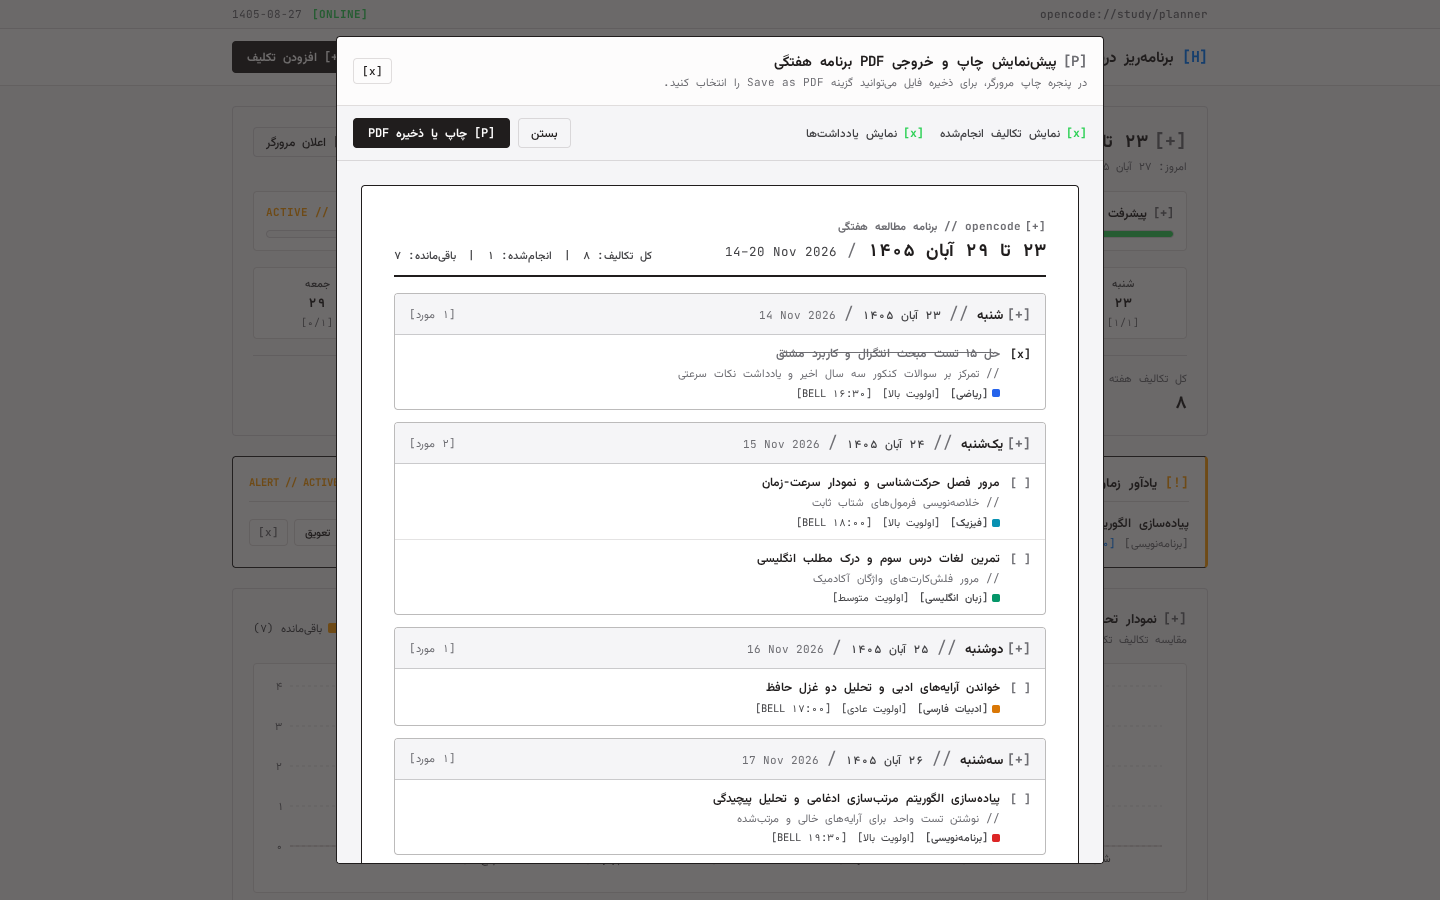
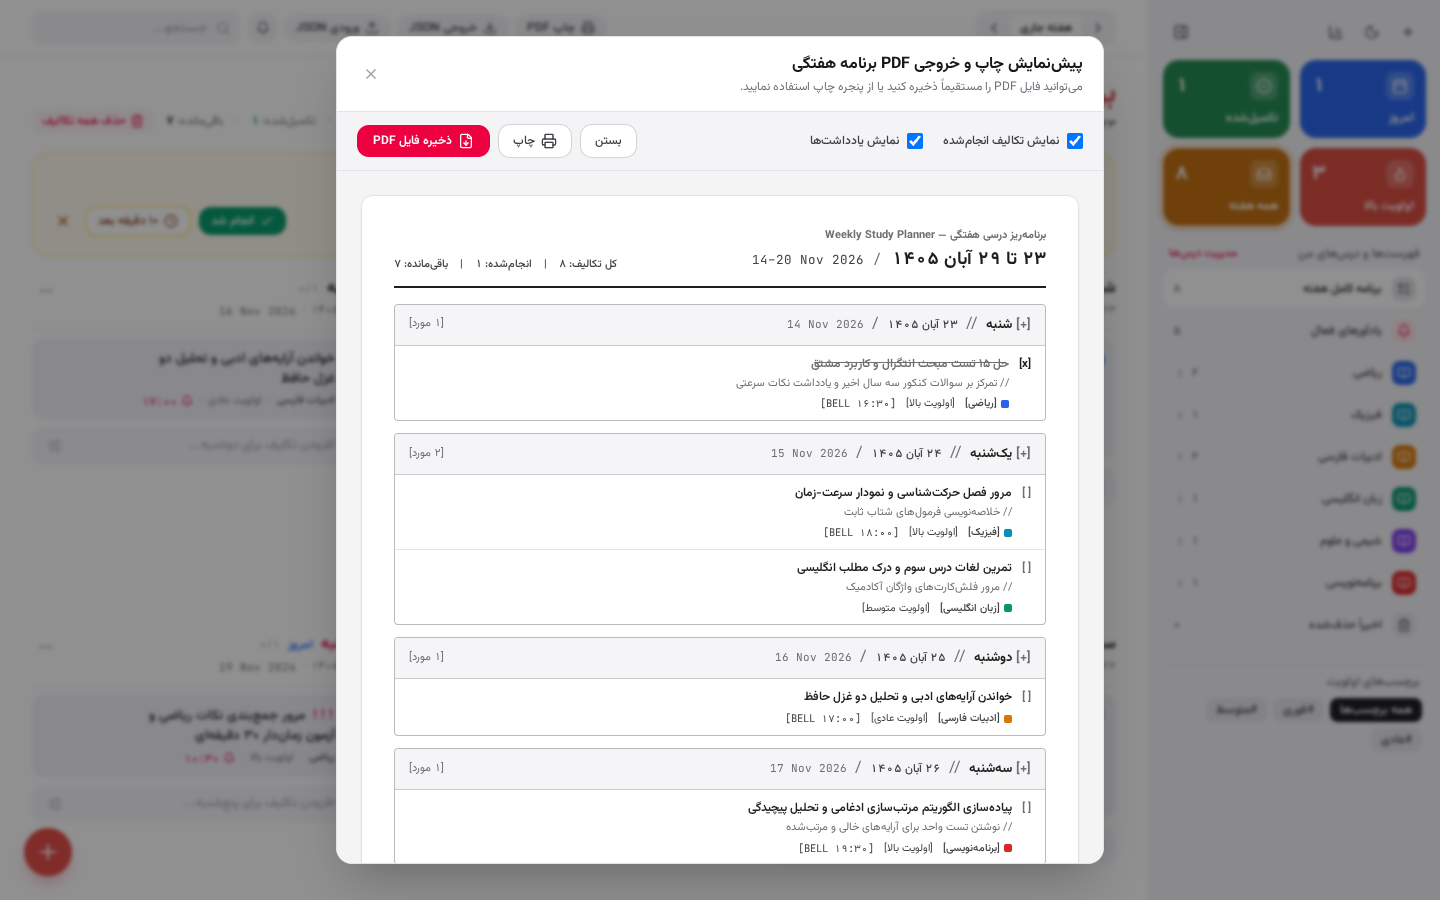
feat: enhance task management and UI
- Add option to register tasks for the entire week
- Implement recycle bin for deleted tasks
- Add bulk deletion and secure confirmation
- Update README with key feature documentation

diff --git a/README.md b/README.md
@@ -50,17 +50,19 @@
 
 ### ✨ امکانات کلیدی
 
+- **رابط کاربری دوپانله مدرن (الهامگرفته از Reminders)**: نوار کناری جمعشونده شامل ۴ کاشی آماری سریع (**امروز**، **تکمیلشده**، **اولویت بالا**، **همه هفته**)، فهرست دروس با شمارنده زنده، بخش **اخیراً حذفشده**، برچسبهای اولویت (`#فوری`، `#متوسط`، `#عادی`)، گرید ۳ ستونه روزهای هفته و دکمه شناور افزودن تکلیف.
 - **برنامهریزی هفتگی (شنبه تا جمعه)**: دستهبندی تکالیف بر اساس ۷ روز هفته ایرانی همراه با دکمههای جابهجایی سریع بین «هفته قبل»، «هفته جاری» و «هفته بعد» و نمایش برچسب «امروز».
 - **تقویم دوگانه شمسی و میلادی**: نمایش دقیق و همزمان تاریخ شمسی (با محاسبه دقیق سالهای کبیسه در هر دو لایه TypeScript و Rust) در کنار تاریخ میلادی برای بازه هفته و تکتک روزها.
-- **مدیریت تکالیف و افزودن سریع**: ایجاد، ویرایش و حذف تکالیف با عنوان، یادداشت، انتخاب درس، اولویت سهسطحی (**بالا**، **متوسط**، **عادی**) و افزودن سریع درونخطی (`افزودن سریع`) برای هر روز.
+- **مدیریت تکالیف، افزودن سریع و ثبت برای کل هفته**: ایجاد، ویرایش و حذف تکالیف با عنوان، یادداشت، انتخاب درس، اولویت سهسطحی (**بالا**، **متوسط**، **عادی**)، افزودن سریع درونخطی برای هر روز و تیک **«ثبت برای تمام روزهای هفته (شنبه تا جمعه)»** در هر دو بخش افزودن سریع و پنجره افزودن تکلیف.
+- **سطل بازیافت (اخیراً حذفشده) و حذف همگانی امن**: انتقال تکالیف حذفشده به بخش **«اخیراً حذفشده»** با قابلیت بازیابی یا حذف دائمی؛ همچنین دکمه **«حذف همه تکالیف»** همراه با پنجره تأیید امن، انتخاب دامنه (همه تکالیف یا فقط هفته جاری) و گزینه حذف دائمی.
 - **دستهبندی موضوعی دروس**: امکان ساخت، ویرایش و حذف درسها به همراه انتخاب رنگ اختصاصی (`SubjectModal`).
 - **سیستم یادآور هوشمند**: تنظیم ساعت یادآور (`HH:mm`) برای هر تکلیف، بنر اعلانهای سررسیدشده در بالای صفحه، پخش صدای ملایم هشدار (Web Audio API)، تعویق ۱۰ دقیقهای (Snooze) و پشتیبانی از اعلان مرورگر (`Notification API`).
-- **فیلتر و جستجوی آنی**: جستجو در عنوان و یادداشت تکالیف و فیلتر همزمان بر اساس درس، سطح اولویت و وضعیت (همه / باقیمانده / انجامشده).
+- **فیلتر و جستجوی آنی**: جستجو در عنوان و یادداشت تکالیف و فیلتر همزمان بر اساس کاشیهای سریع، درس، یادآورهای فعال و برچسبهای اولویت.
 - **نمودار تحلیلی پیشرفت هفتگی**: رسم نمودار میلهای تعاملی با **Recharts** برای مقایسه تکالیف تکمیلشده در برابر باقیمانده به تفکیک روزهای شنبه تا جمعه همراه با نرخ پیشرفت هفته و Tooltip دوگانه تاریخ.
-- **چاپ و خروجی PDF استاندارد**: پیشنمایش صفحه چاپ A4 با چیدمان راستبهچپ (`@media print`)، گزینههای نمایش/مخفیسازی تکالیف انجامشده و یادداشتها و ذخیره مستقیم به صورت PDF.
-- **حالت تاریک (Dark Mode)**: دکمه تغییر تم در هدر با ذخیرهسازی انتخاب کاربر و هماهنگی خودکار با تنظیمات سیستمعامل.
-- **پشتیبانگیری و بازیابی JSON**:
-  - خروجی گرفتن از کل تکالیف، درسها و تم در قالب فایل `.json` تاریخدار (در نسخه دسکتاپ/اندروید Tauri مستقیماً توسط دستور بومی Rust در پوشه Downloads ذخیره میشود).
+- **چاپ و خروجی مستقیم PDF (برگه A4)**: پیشنمایش صفحه چاپ A4 با چیدمان راستبهچپ (`@media print`)، گزینههای نمایش/مخفیسازی تکالیف انجامشده و یادداشتها و تولید مستقیم فایل چندصفحهای PDF با `jsPDF`.
+- **حالت تاریک (Dark Mode)**: دکمه تغییر تم در نوار کناری با ذخیرهسازی انتخاب کاربر و هماهنگی خودکار با تنظیمات سیستمعامل.
+- **پشتیبانگیری و بازیابی JSON و پوشه اختصاصی خروجی**:
+  - خروجی گرفتن از کل تکالیف، درسها و تم در قالب فایل `.json` تاریخدار و ذخیره مستقیم فایلهای **PDF** و **JSON** در پوشه اختصاصی **`Download/WeeklyStudyPlanner`** در نسخه اندروید (از طریق پل بومی Kotlin و `MediaStore`) و **`Downloads/WeeklyStudyPlanner`** در نسخههای دسکتاپ Tauri.
   - دریافت ورودی JSON از طریق انتخاب فایل یا چسباندن مستقیم متن، اعتبارسنجی لحظهای ساختار و اعمال به دو روش **جایگزینی کامل** یا **ادغام هوشمند**.
 - **قابلیت PWA و کارکرد آفلاین**: قابل نصب روی موبایل و دسکتاپ از طریق مرورگر، همراه با کش آفلاین Service Worker و نوار اطلاعرسانی حالت آفلاین.
 
@@ -147,7 +149,7 @@ npx tauri dev
 
 #### ۴. اجرای تستها و بررسی تایپها
 ```bash
-# تستهای واحد فرانتاند (۲۲ تست)
+# تستهای واحد فرانتاند (۳۰ تست)
 npx tsx --test src/utils/*.test.ts
 
 # بررسی تایپهای TypeScript
@@ -216,17 +218,19 @@ git push origin v1.0.0
 
 ### ✨ Key Features
 
+- **Modern Split-Pane Reminders UI**: Collapsible sidebar (`PlannerSidebar`) featuring 2×2 color-coded quick-filter tiles (**Today**, **Completed**, **High Priority**, **All Week**), live subject lists, **Recently Deleted** trash view, priority tag pills, a 3-column weekly board grid, and a floating `+` action button.
 - **Weekly Schedule (Saturday to Friday)**: Structured 7-day layout with quick week navigation (`Previous`, `Current`, `Next`) and automatic highlighting for today's date.
 - **Dual Jalali & Gregorian Calendar**: Accurate, simultaneous Persian (Jalali) and Gregorian dates across week headers, day sections, and charts—implemented in both TypeScript (`src/utils/jalali.ts`) and Rust (`src-tauri/src/jalali.rs`) with leap-year handling.
-- **Task Management & Inline Quick-Add**: Create, edit, and delete study tasks with optional notes, subject tag, 3 priority tiers (`high`, `medium`, `low`), completion toggles, and fast inline task creation per day.
+- **Task Management, Inline Quick-Add & All-Week Repeat**: Create, edit, and delete study tasks with optional notes, subject tag, 3 priority tiers (`high`, `medium`, `low`), completion toggles, inline per-day creation, and a **register for all days of the week (Saturday–Friday)** checkbox in both `TaskModal` and inline quick-add.
+- **Recently Deleted (Trash) & Safe Bulk Delete**: Deleted tasks move to **Recently Deleted** for one-click restore or permanent removal, plus a **Delete All Tasks** action (`ConfirmDeleteAllModal`) supporting all-tasks or current-week scope and reversible soft-delete or permanent delete.
 - **Custom Subject Categories**: Full CRUD management for academic subjects with custom color swatches (`SubjectModal`).
 - **Smart Study Reminders**: Per-task `HH:mm` reminders, an active due-reminders banner (`ReminderBanner`), Web Audio API chime (`sound.ts`), 10-minute snooze, dismiss/complete quick actions, and browser `Notification` API support.
-- **Live Filtering & Search**: Instant filtering across search text (title & notes), subject category, priority level, and completion status.
+- **Live Filtering & Search**: Instant filtering across search text (title & notes), quick-filter tiles, subject lists, active reminders, and priority tags.
 - **Weekly Progress Analytics Chart**: Interactive **Recharts** bar chart comparing completed vs. remaining tasks per day alongside weekly completion percentage and dual-date tooltips.
-- **A4 Print & PDF Export**: Dedicated `@media print` A4 sheet preview (`PrintScheduleModal` + `PrintableWeekSheet`) with toggles for completed tasks and notes, ready to save as PDF.
-- **Dark Mode**: Header theme toggle saved to `localStorage` (`study_planner_theme_v1`), respecting system `prefers-color-scheme` with flash-free startup.
-- **JSON Backup & Restore**:
-  - Export all tasks, subjects, and theme preference into a dated `.json` file (automatically saved to Downloads natively via Rust `save_json_backup` when running in Tauri, or downloaded via browser Blob).
+- **Direct A4 PDF Export & Print Preview**: Dedicated `@media print` A4 sheet preview (`PrintScheduleModal` + `PrintableWeekSheet`) with toggles for completed tasks and notes, plus direct multi-page RTL PDF generation via `jsPDF` (`pdfExport.ts`).
+- **Dark Mode**: Sidebar theme toggle saved to `localStorage` (`study_planner_theme_v1`), respecting system `prefers-color-scheme` with flash-free startup.
+- **JSON Backup, Restore & Dedicated Export Folder**:
+  - Export all tasks, subjects, and theme preference into a dated `.json` file—both **PDF** and **JSON** exports are saved natively into **`Download/WeeklyStudyPlanner`** on Android (via Kotlin `MediaStore.Downloads` bridge) and **`Downloads/WeeklyStudyPlanner`** on Tauri desktop, or downloaded via browser Blob on the web.
   - Restore from `.json` file upload or pasted JSON text with live validation and **Replace** or **Merge** import modes.
 - **PWA & Offline Support**: Installable web app with Workbox asset caching, an in-app install prompt (`PWAInstallButton` supporting Chromium `beforeinstallprompt` & iOS Safari instructions), and an `OfflineIndicator` banner.
 
@@ -281,8 +285,8 @@ Download both the installer and its matching `.sha256` file from Releases, then 
 
 ### 🏗 Architecture & Tech Stack
 
-- **Frontend**: React 19, TypeScript, Vite 8, Tailwind CSS v4, Recharts, Lucide React, `vite-plugin-pwa`
-- **Native Core (Desktop & Android)**: Rust (Edition 2021) + Tauri v2 (`src-tauri/`)
+- **Frontend**: React 19, TypeScript, Vite 8, Tailwind CSS v4, Recharts, Lucide React, `jsPDF`, `vite-plugin-pwa`
+- **Native Core (Desktop & Android)**: Rust (Edition 2021) + Tauri v2 (`src-tauri/`) + Android Kotlin `MediaStore.Downloads` bridge
 - **CI/CD**: Multi-platform GitHub Actions workflow (`.github/workflows/release.yml`)
 
 ```text
@@ -294,17 +298,18 @@ Study-App-Manager/
 │   └── PKGBUILD               # Arch Linux build recipe for Rust/Tauri binary
 ├── public/                    # PWA SVG/PNG/Maskable & Apple touch icons
 ├── src/
-│   ├── components/            # Modals, Day cards, Recharts chart, PDF sheet, PWA UI
+│   ├── components/            # PlannerSidebar, Day cards, Modals, Recharts chart, PDF sheet, PWA UI
 │   ├── hooks/                 # usePWAInstall, useOnlineStatus
 │   ├── types/                 # TypeScript interfaces (StudyTask, SubjectCategory)
-│   ├── utils/                 # Jalali math, filters, JSON backup/import, Tauri bridge & unit tests
-│   ├── App.tsx                # Main application state & weekly planner view
+│   ├── utils/                 # Jalali math, tasks/trash, PDF/JSON export, Tauri bridge & 30 unit tests
+│   ├── App.tsx                # Main application state & split-pane weekly planner view
 │   └── main.tsx               # App bootstrap & Service Worker registration
 └── src-tauri/
+    ├── android-templates/     # Native Android Kotlin bridge (Download/WeeklyStudyPlanner)
     ├── capabilities/          # Tauri v2 permission capabilities
     ├── src/
     │   ├── jalali.rs          # Rust Jalali/Gregorian converter + unit tests
-    │   ├── lib.rs             # Tauri commands & desktop/mobile entrypoint
+    │   ├── lib.rs             # Tauri commands (JSON/PDF export) & desktop/mobile entrypoint
     │   └── main.rs            # Desktop binary entrypoint
     ├── Cargo.toml
     └── tauri.conf.json
@@ -341,7 +346,7 @@ npx tauri dev
 
 #### 4. Tests & Type Checking
 ```bash
-# Run all 22 TypeScript utility unit tests
+# Run all 30 TypeScript utility unit tests
 npx tsx --test src/utils/*.test.ts
 
 # Run TypeScript type check
